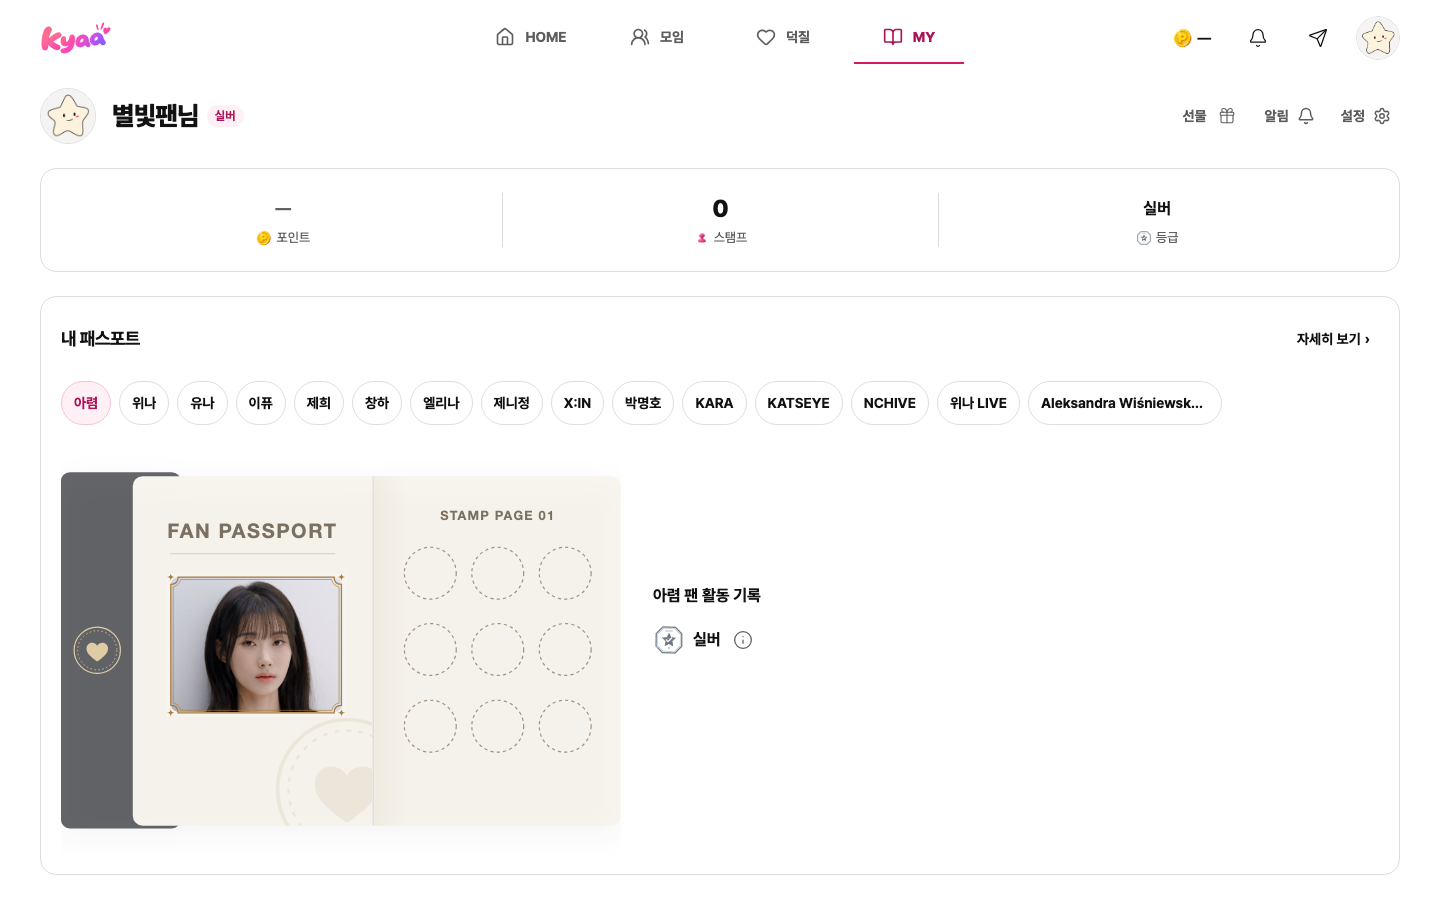
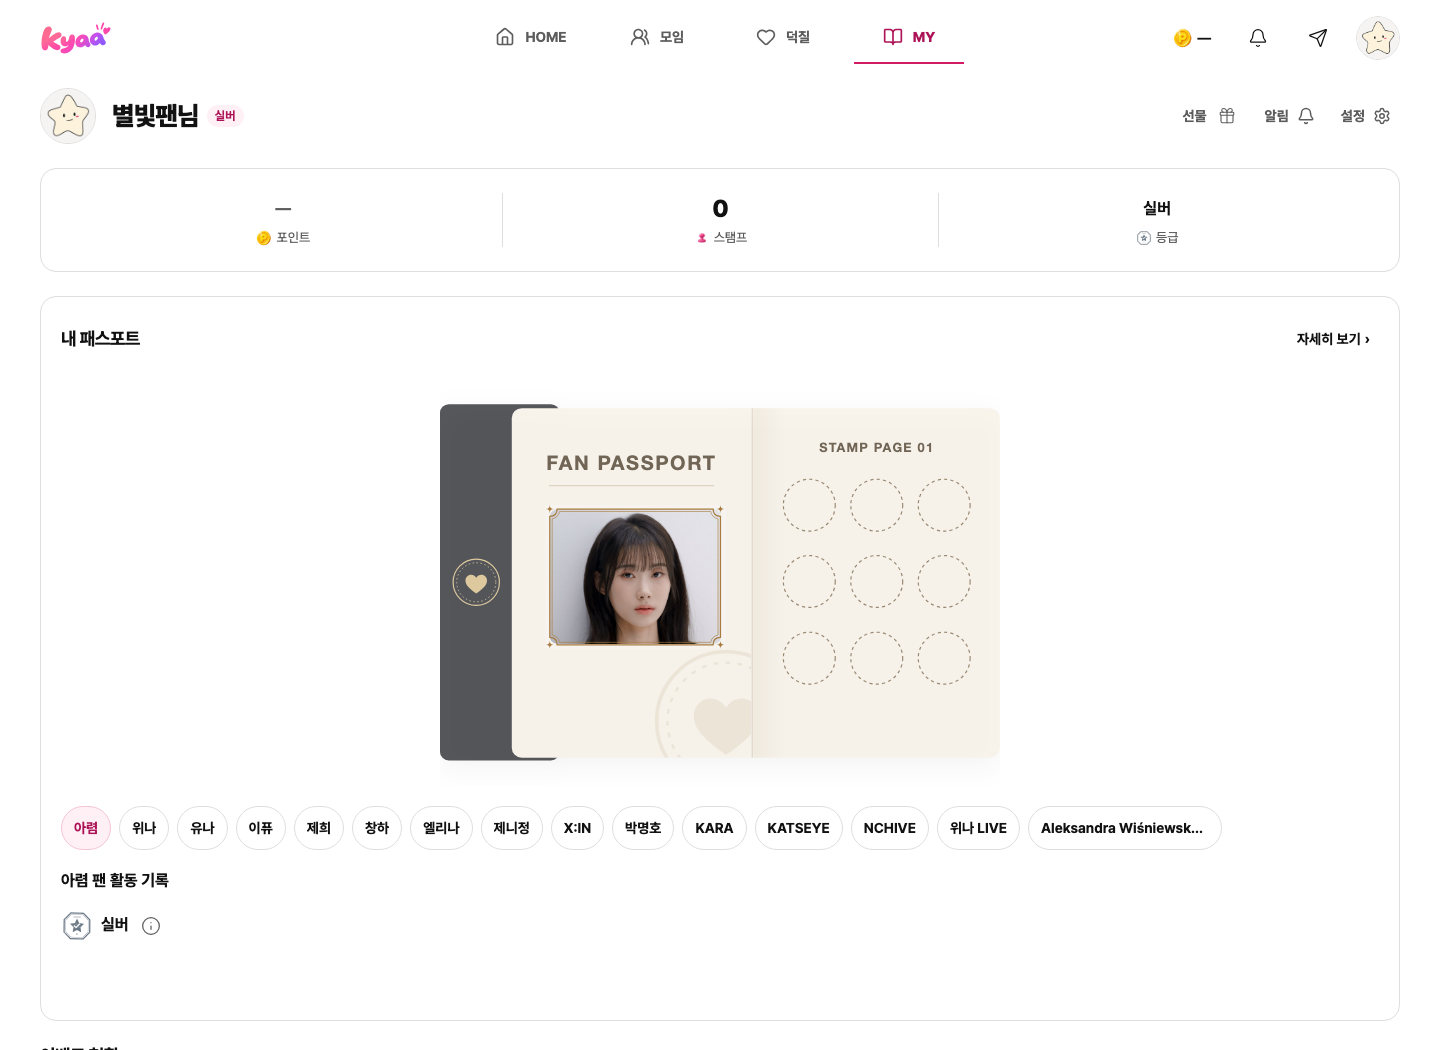
Show MY passport before favorite chips

diff --git a/apps/web/features/my/ui/my-passport-card.tsx b/apps/web/features/my/ui/my-passport-card.tsx
@@ -98,11 +98,12 @@ type BookBodyProps = {
   passportId: string; celebrity: Parameters<typeof PassportIdentityArtwork>[0]["celebrity"]; tier: NonNullable<Creator["passport"]>["tier"]; stageKey: string | null; tierName: string;
   tierStep: ReturnType<typeof nextTierStep>; book: ReturnType<typeof usePassportBook>; href: string; bookLabel: string; locale: AppLocale;
   /** What the slot row shows while the mission policy is off. */
+  selector?: ReactNode;
   fallback?: ReactNode; fallbackCount?: number; error?: { message: string; retryLabel: string; onRetry: () => void } | null;
 };
 
 /** 여권 그림 · 등급 · 스탬프 게이지 · 미션북 9칸. MY의 패스포트 카드와 덕질 탭의 덕질 기록이 같은 부품을 쓴다. 카드 외곽(`.card`)은 부르는 쪽이 둔다. */
-export function PassportBookBody({ passportId, celebrity, tier, stageKey, tierName, tierStep, book, href, bookLabel, locale, fallback = null, fallbackCount = 0, error = null }: BookBodyProps) {
+export function PassportBookBody({ passportId, celebrity, tier, stageKey, tierName, tierStep, book, href, bookLabel, locale, selector, fallback = null, fallbackCount = 0, error = null }: BookBodyProps) {
   const filled = book.page?.filled ?? null;
   const total = book.page?.slots.length ?? 9;
   const filledArt = filledSlotArt(book.page);
@@ -111,6 +112,7 @@ export function PassportBookBody({ passportId, celebrity, tier, stageKey, tierNa
       <Link href={href as Route} className={styles.book} data-my-passport-book={passportId} aria-label={bookLabel}>
         <PassportIdentityArtwork celebrity={celebrity} locale={locale} level={tier} stamps={[]} slotArt={filledArt} totalCount={filled ?? fallbackCount} priority />
       </Link>
+      {selector}
       <div className={styles.facts}>
         <h3>{myHomeText(locale, "passportRecord", [celebrity.name])}</h3>
         <p className={styles.tier}>
@@ -161,11 +163,11 @@ export function MyPassportCard({ creators, selectedSlug, onSelect, communityStam
   const tierStep = passport ? nextTierStep(locale, passport) : null;
   const manyPassports = eligible.length > 1;
   useEffect(() => { try { localStorage.setItem(CHIPS_KEY, manyPassports ? "1" : "0"); } catch { /* 기기별 편의값이다. */ } }, [manyPassports]);
-  return <section className={styles.card} aria-label={labels.title}>
+  return <section className={`${styles.card} ${styles.myCard}`} aria-label={labels.title}>
     <header><FanHeading>{labels.title}</FanHeading><FanSectionLink href={href}>{labels.detail}</FanSectionLink></header>
     {!selected || !passport ? <div className={styles.empty}><p>{labels.noCreators}</p><FanAction href={`/celebrities?locale=${locale}`}>{labels.findCreator}</FanAction></div> : <>
-      {eligible.length > 1 ? <FanTabs className={styles.selector} variant="chip" label={labels.creators} current={selected.celebrity.slug} items={ordered.map((creator) => ({ key: creator.celebrity.slug, label: <span className={styles.chipName} title={creator.celebrity.name}>{creator.celebrity.name}</span>, onSelect: () => onSelect(creator.celebrity.slug) }))} /> : null}
       <PassportBookBody passportId={passport.id} celebrity={selected.celebrity} tier={passport.tier} stageKey={stage?.current.key ?? null} tierName={tierName} tierStep={tierStep} book={book} href={href} bookLabel={`${selected.celebrity.name} · ${labels.detail}`} locale={locale} fallbackCount={fallbackStamps.length}
+        selector={eligible.length > 1 ? <FanTabs className={styles.selector} variant="chip" label={labels.creators} current={selected.celebrity.slug} items={ordered.map((creator) => ({ key: creator.celebrity.slug, label: <span className={styles.chipName} title={creator.celebrity.name}>{creator.celebrity.name}</span>, onSelect: () => onSelect(creator.celebrity.slug) }))} /> : null}
         fallback={fallbackStamps.length > 0 ? <ul className={styles.slots}>{fallbackStamps.map((stamp) => <li className={styles.slot} data-state="filled" key={stamp.id}><span className={styles.slotArt}><img src={communityStampThumb(stamp.kind)} alt="" width={56} height={56} /></span><span className={styles.slotName}>{communityStampLabel(stamp.kind, locale)}</span></li>)}</ul> : null}
         error={book.status === "error" || (book.status === "off" && stampsError) ? { message: labels.loadError, retryLabel: labels.retry, onRetry: () => { book.retry(); retryStamps(); } } : null} />
     </>}
@@ -178,11 +180,11 @@ const CHIPS_KEY = "kyaa:my:passport-chips";
 export function MyPassportCardSkeleton({ title }: { title: string }) {
   const [chips, setChips] = useState(false);
   useLayoutEffect(() => { try { setChips(localStorage.getItem(CHIPS_KEY) === "1"); } catch { /* 자리만 잡는 값이라 없어도 된다. */ } }, []);
-  return <section className={styles.card} aria-label={title}>
+  return <section className={`${styles.card} ${styles.myCard}`} aria-label={title}>
     <header><FanHeading>{title}</FanHeading></header>
-    {chips ? <div style={{ visibility: "hidden" }} aria-hidden="true" data-passport-chip-space><FanTabs className={styles.selector} variant="chip" label="" current="" items={[{ key: "space", label: "\u00a0" }]} /></div> : null}
     <div className={styles.body} aria-hidden="true">
       <span className={styles.bookSkeleton}><Image src="/images/passport/passport-open-book.svg" alt="" width={1536} height={1024} unoptimized sizes="(max-width:767px) 100vw, 380px" priority /></span>
+      {chips ? <div style={{ visibility: "hidden" }} aria-hidden="true" data-passport-chip-space><FanTabs className={styles.selector} variant="chip" label="" current="" items={[{ key: "space", label: "\u00a0" }]} /></div> : null}
       <div className={styles.facts}><FanSkeleton width="60%" height={24} /><FanSkeleton width="40%" height={32} /><FanSkeleton width="100%" height={40} /><FanSkeleton width="100%" height={40} /></div>
     </div>
     <div className={styles.slots} aria-hidden="true">{Array.from({ length: 9 }, (_, index) => <span className={styles.slot} key={index}><FanSkeleton shape="circle" width={48} height={48} /><FanSkeleton width={40} height={12} /></span>)}</div>

diff --git a/apps/web/features/my/ui/my-passport-card.module.css b/apps/web/features/my/ui/my-passport-card.module.css
@@ -72,3 +72,11 @@
 
 /* The book occupies x=65..1468 of its 1536px source; trim only the blank sides. */
 .book > [data-passport-identity], .book > img { inline-size:109.48%; max-inline-size:none; margin-inline-start:-4.63%; }
+
+.myCard > .body { grid-template-columns:minmax(0,1fr); gap:var(--space-4); }
+@media (min-width:768px) {
+  .myCard :is(.book, .bookSkeleton) { max-inline-size:380px; margin-inline:auto; }
+}
+@media (min-width:1024px) {
+  .myCard :is(.book, .bookSkeleton) { max-inline-size:560px; }
+}

diff --git a/DESIGN.md b/DESIGN.md
@@ -2091,6 +2091,7 @@ UI018 섹션 구분은 흰 배경과 기존 경계색을 유지하며 자산 요
 - 덕질 홈 제목 행에 짧은 `내역` 링크 하나만 둔다(`/my/wallet#wallet-history`). 잔액 요약 카드에는 내역 버튼이 없다. 이동 링크는 text FanAction이며 화살표는 제목 행 오른쪽이다.
 - MY 홈: 패스포트는 인라인(embedded)으로 보인다. 상단 유틸리티는 알림·설정만이고 신고·문의는 활동 영역에 둔다. 프로필 행은 이름·알림·설정만, 비로그인은 로그인 화면과 같은 구역을 유지하고 내 값은 `FanLockedValue`·`FanLockedRows`로 둔다(`비로그인 화면(전 화면)` 행). 패스포트 선택 칩의 이름은 최대폭 말줄임이다.
 - MY 홈 제보 189300(2026-11-18): 이름 옆에는 기존 8px 간격의 등급 태그를 둔다. 390px·1440px에서 한 줄 프로필 높이는 각각 48px·56px이고, 다음 구역까지 기존 20px·24px 간격을 둔다. 이름 아래로 밀리던 44px 등급 안내 버튼은 프로필 줄에서 빼고 요약 등급 칸과 패스포트 등급 옆에서 안내를 연다. 패스포트 칩은 공통 `FanTabs` 한 줄로 표시하고 현재 선택을 첫 칸에 둔다. 너비를 넘으면 가로로 넘기며 잘린 칩이 다음 항목을 알린다.
+- MY 홈 제보 189307(2026-11-18): 프로필 요약 → 선택 최애의 패스포트 그림 → 한 줄 최애 칩 → 팬 활동 기록 순이다. 390×844 첫 화면에 펼친 패스포트 전체를 표시한다. PC의 기존 560px 그림은 카드 가운데에 둔다.
 
 #### Home metadata and empty reservations — 2026-11-03
 
